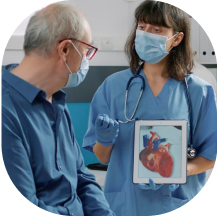
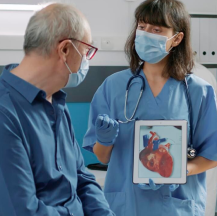
p

Changed region(s): [[0.0, 0.0, 0.3318, 1.0], [0.6912, 0.6944, 1.0, 1.0], [0.6912, 0.0, 1.0, 0.3056]]

diff --git a/public/index.html b/public/index.html
@@ -32,27 +32,39 @@
                 </div>
                 <div class="grid grid-cols-3 justify-items-center gap-y-4 pt-4">
                     <a href="#" class="h-[102px] w-[111px]">
-                        <img src="assets/image/pediatric.png" alt="pediatric" class="mx-auto size-[72px]" />
+                        <div class="mx-auto flex size-[72px] items-center justify-center overflow-hidden rounded-3xl">
+                            <img src="assets/image/pediatric.png" alt="pediatric" class="h-full w-full object-cover" />
+                        </div>
                         <h3 class="mt-[10px] text-center font-jakarta font-semibold leading-[20.16px] text-[#757C98]">Pediatric</h3>
                     </a>
                     <a href="#" class="h-[102px] w-[111px]">
-                        <img src="assets/image/cardiology.png" alt="cardiology" class="mx-auto size-[72px]" />
+                        <div class="mx-auto flex size-[72px] items-center justify-center overflow-hidden rounded-3xl">
+                            <img src="assets/image/cardiology.png" alt="cardiology" class="h-full w-full object-cover" />
+                        </div>
                         <h3 class="mt-[10px] text-center font-jakarta font-semibold leading-[20.16px] text-[#757C98]">Cardiology</h3>
                     </a>
                     <a href="#" class="h-[102px] w-[111px]">
-                        <img src="assets/image/neurology.png" alt="neurology" class="mx-auto size-[72px]" />
+                        <div class="mx-auto flex size-[72px] items-center justify-center overflow-hidden rounded-3xl">
+                            <img src="assets/image/neurology.png" alt="neurology" class="h-full w-full object-cover" />
+                        </div>
                         <h3 class="mt-[10px] text-center font-jakarta font-semibold leading-[20.16px] text-[#757C98]">Neurology</h3>
                     </a>
                     <a href="#" class="h-[102px] w-[111px]">
-                        <img src="assets/image/obstetrics.png" alt="obstetrics" class="mx-auto size-[72px]" />
+                        <div class="mx-auto flex size-[72px] items-center justify-center overflow-hidden rounded-3xl">
+                            <img src="assets/image/obstetrics.png" alt="obstetrics" class="h-full w-full object-cover" />
+                        </div>
                         <h3 class="mt-[10px] text-center font-jakarta font-semibold leading-[20.16px] text-[#757C98]">Obstetrics</h3>
                     </a>
                     <a href="#" class="h-[102px] w-[111px]">
-                        <img src="assets/image/dermatology.png" alt="dermatology" class="mx-auto size-[72px]" />
+                        <div class="mx-auto flex size-[72px] items-center justify-center overflow-hidden rounded-3xl">
+                            <img src="assets/image/dermatology.png" alt="dermatology" class="h-full w-full object-cover" />
+                        </div>
                         <h3 class="mt-[10px] text-center font-jakarta font-semibold leading-[20.16px] text-[#757C98]">Dermatology</h3>
                     </a>
                     <a href="#" class="h-[102px] w-[111px]">
-                        <img src="assets/image/urologist.png" alt="urologist" class="mx-auto size-[72px]" />
+                        <div class="mx-auto flex size-[72px] items-center justify-center overflow-hidden rounded-3xl">
+                            <img src="assets/image/urologist.png" alt="urologist" class="h-full w-full object-cover" />
+                        </div>
                         <h3 class="mt-[10px] text-center font-jakarta font-semibold leading-[20.16px] text-[#757C98]">Urologist</h3>
                     </a>
                 </div>
